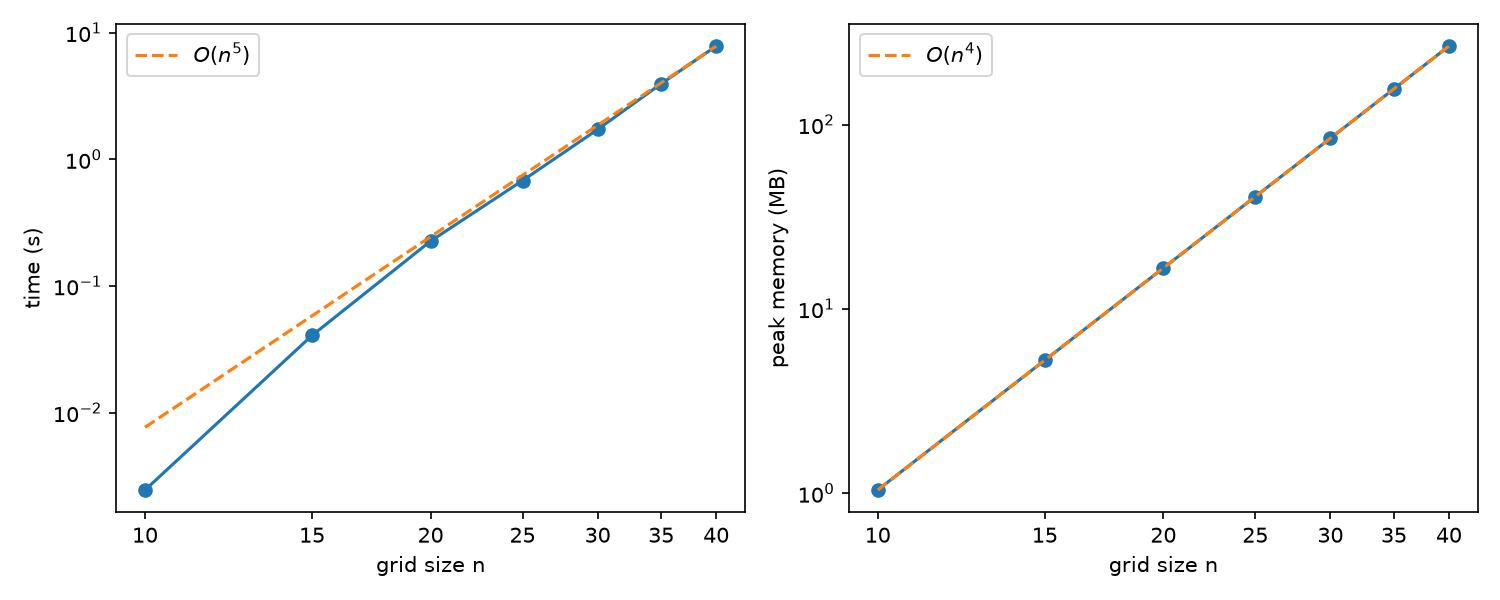
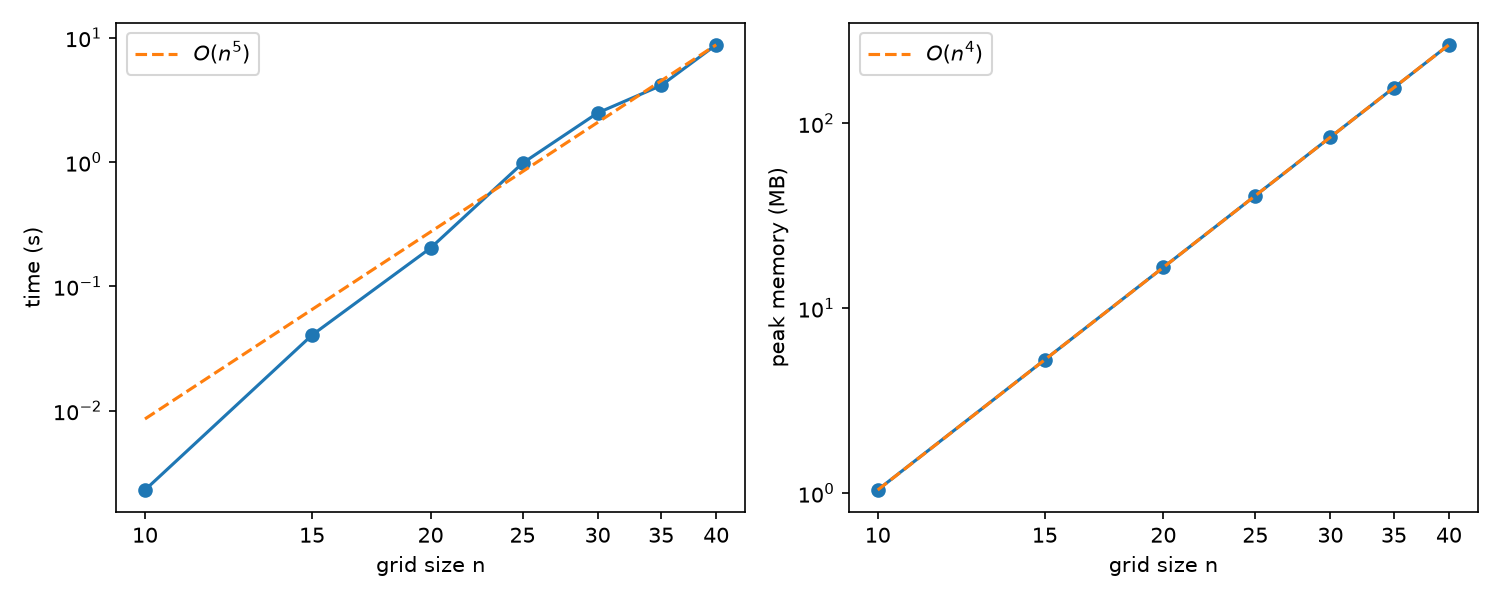
add README

diff --git a/visualize.py b/visualize.py
@@ -19,7 +19,7 @@ def fig_to_array(fig):
     return np.asarray(fig.canvas.buffer_rgba())[:, :, :3]
 
 
-def animate_episode(env, pursuer_policy, evader_policy, path):
+def animate_episode(env, pursuer_policy, evader_policy, path, title=""):
     state = env.reset()
     states = [(env.pursuer, env.evader, env.turn, env.t)]
     done = False
@@ -31,6 +31,7 @@ def animate_episode(env, pursuer_policy, evader_policy, path):
         state, reward, done = env.step(action)
         states.append((env.pursuer, env.evader, env.turn, env.t))
     fig, ax = plt.subplots()
+    fig.suptitle(title)  
 
     def update(i):
         ax.clear()
@@ -50,17 +51,24 @@ if __name__ == "__main__":
     import os
     os.makedirs("outputs", exist_ok=True)
 
-    env_ran = PursuitEvasionGrid(n=10, obstacles=[(4, 0), (4, 1), (4, 2)], seed=0)
+    env_ran_ran = PursuitEvasionGrid(n=10, obstacles=[(4, 0), (4, 1), (4, 2)], seed=0)
     path_ran = "outputs/random_vs_random.gif"
-    animate_episode(env_ran, random_policy, random_policy, path_ran)
-    print("done, total steps: ", env_ran.t)
+    animate_episode(env_ran_ran, random_policy, random_policy, path_ran, "random pursuer v.s. random evader")
+    print("done, total steps: ", env_ran_ran.t)
 
-    env_opt = PursuitEvasionGrid(n=10, obstacles=[(4, 0), (4, 1), (4, 2)], seed=0)
-    V0, V1, iters = value_iteration(env_opt)
-    optimal_pursuer, optimal_evader = optimal_policies(V0, V1, env_opt.neighbors)
+    env_opt_ran = PursuitEvasionGrid(n=10, obstacles=[(4, 0), (4, 1), (4, 2)], seed=0)
+    V0, V1, iters = value_iteration(env_opt_ran)
+    optimal_pursuer, optimal_evader = optimal_policies(V0, V1, env_opt_ran.neighbors)
+    path_opt = "outputs/optimal_vs_random.gif"
+    animate_episode(env_opt_ran, optimal_pursuer, random_policy, path_opt, "optimal pursuer v.s. random evader")
+    print("done, total steps: ", env_opt_ran.t)
+
+    env_opt_opt = PursuitEvasionGrid(n=10, obstacles=[(4, 0), (4, 1), (4, 2)], seed=0)
+    V0, V1, iters = value_iteration(env_opt_opt)
+    optimal_pursuer, optimal_evader = optimal_policies(V0, V1, env_opt_opt.neighbors)
     path_opt = "outputs/optimal_vs_optimal.gif"
-    animate_episode(env_opt, optimal_pursuer, optimal_evader, path_opt)
-    print("done, total steps: ", env_opt.t)
+    animate_episode(env_opt_opt, optimal_pursuer, optimal_evader, path_opt, "optimal pursuer v.s. optimal evader")
+    print("done, total steps: ", env_opt_opt.t)
 
 
     

diff --git a/test_solver.py b/test_solver.py
@@ -20,15 +20,25 @@ for name, env in zip(names, env_set):
     print(f"capture rate: {rate:.1%}")
     print(f"average steps to capture: {steps:.1f}")
 
-# optimal pursuer & random
-env_random_evader = PursuitEvasionGrid(n=10, obstacles=[(4, 0), (4, 1), (4, 2)], seed=0)
+# optimal pursuer & random evader
+env_opt_ran = PursuitEvasionGrid(n=10, obstacles=[(4, 0), (4, 1), (4, 2)], seed=0)
 print(f"\n====== optimal pursuer & random evader with wall ======\n")
-V0, V1, iters = value_iteration(env_random_evader)
+V0, V1, iters = value_iteration(env_opt_ran)
 print("iteration:", iters)
-optimal_pursuer, optimal_evader = optimal_policies(V0, V1, env_random_evader.neighbors)
-rate, steps = evaluate(env_random_evader, optimal_pursuer, random_policy)
+optimal_pursuer, optimal_evader = optimal_policies(V0, V1, env_opt_ran.neighbors)
+rate, steps = evaluate(env_opt_ran, optimal_pursuer, random_policy)
 print(f"capture rate: {rate:.1%}")
 print(f"average steps to capture: {steps:.1f}")
+
+# random pursuer & random evader
+env_random = PursuitEvasionGrid(n=10, obstacles=[(4, 0), (4, 1), (4, 2)], seed=0)
+print(f"\n====== random pursuer & random evader with wall ======\n")
+V0, V1, iters = value_iteration(env_random)
+print("iteration:", iters)
+rate, steps = evaluate(env_random, random_policy, random_policy)
+print(f"capture rate: {rate:.1%}")
+print(f"average steps to capture: {steps:.1f}")
+
 
 # Adjacent, pursuer's turn: capture on the next move
 p, e = env.to_idx(2, 7), env.to_idx(2, 8)

diff --git a/README.md b/README.md
@@ -1,0 +1,121 @@
+# Pursuit-Evasion on a Grid: Minimax Value Iteration
+
+A pursuer chases an evader on a discretized grid with obstacles. This project computes the optimal strategies for both players with minimax value iteration, compares them with random play, and measures how the computational cost grows as the grid gets finer.
+
+## Motivation
+
+Pursuit-evasion games are a classic testbed for motion planning and decision making between two agents with opposing goals. Discretizing the workspace into a grid makes the game exactly solvable, but the joint state space grows quickly with the resolution. This project asks two questions:
+
+1. What do optimal pursuit and evasion strategies look like on a small grid?
+2. How fast does the cost of exact solving grow, and when does it stop being practical?
+
+## Setup
+
+| Item | Setting |
+|---|---|
+| Grid | $n \times n$ cells, with obstacles |
+| Moves | 8 directions or stay (9 actions) for both players |
+| Turn order | Pursuer moves first, then the players alternate |
+| Capture | Both players occupy the same cell |
+| Episode end | Capture, or `max_steps` reached |
+
+Each move by either player counts as one step.
+
+## Method
+
+The value $V$ of a state is the number of steps until capture when both players play optimally. The pursuer minimizes it and the evader maximizes it. With $N[x, a]$ denoting the cell reached from cell $x$ by action $a$:
+
+$$V_0[p, e] = 1 + \min_{a} V_1\big[N[p, a],\ e\big] \qquad \text{(pursuer to move)}$$
+
+$$V_1[p, e] = 1 + \max_{a} V_0\big[p,\ N[e, a]\big] \qquad \text{(evader to move)}$$
+
+Captured states ($p = e$) have value 0. All other states start at $\infty$ and are updated until nothing changes. After $k$ iterations, the finite values are exactly the states from which capture is guaranteed within $k$ steps. States that stay at $\infty$ are those from which the evader can escape forever.
+
+Both updates are vectorized with NumPy fancy indexing over a precomputed neighbor table, so one iteration processes all $2n^4$ states at once. Optimal policies are read off the converged tables with `argmin` and `argmax`.
+
+## Results
+
+### Optimal vs. Random Play
+
+10 × 10 grid with a wall attached to the left border, 1,000 episodes per pairing:
+
+| Pursuer | Evader | Capture rate | Avg. steps to capture |
+|---|---|---|---|
+| Random | Random | 38.1% | 42.7 |
+| Optimal | Random | 100.0% | 8.8 |
+| Optimal | Optimal | 100.0% | 12.5 |
+
+In optimal-vs-optimal play, the simulated number of steps matches the value predicted by $V_0$ at the start state. Against a random evader, the optimal pursuer captures faster (8.8 vs. 12.5 steps), because the optimal evader actively delays capture.
+
+| Optimal vs. Random | Optimal vs. Optimal |
+|---|---|
+| ![Optimal pursuer vs random evader](outputs/optimal_vs_random.gif) | ![Optimal pursuer vs optimal evader](outputs/optimal_vs_optimal.gif) |
+
+### Finding: a single hole lets the evader escape forever
+
+Optimal pursuer vs. optimal evader on three 10 × 10 maps, 1,000 episodes each:
+
+| Map | Obstacles | Capture rate | Avg. steps to capture |
+|---|---|---|---|
+| No obstacles | none | 100.0% | 12.5 |
+| Wall | attached to the left border | 100.0% | 12.5 |
+| Hole | 2 cells in the middle | 52.6% | 9.8 |
+
+With an obstacle in the middle of the grid, 49.5% of the states (both players on free cells) have infinite value, and only about half of the episodes end in capture: the evader reaches the obstacle and circles it, and a pursuer of equal speed can never close the gap. This matches the theory of cops and robbers games on graphs, where a hole lets the robber circle around it indefinitely. Obstacles in the main experiments are therefore attached to the border.
+
+### Scaling
+
+![Scaling of runtime and memory](outputs/scaling.png)
+
+| $n$ | States | Iterations | Time (s) | Peak memory (MB) | Max steps to capture |
+|---|---|---|---|---|---|
+| 10 | 20,000 | 19 | 0.002 | 1.0 | 17 |
+| 15 | 101,250 | 29 | 0.041 | 5.3 | 27 |
+| 20 | 320,000 | 39 | 0.204 | 16.6 | 37 |
+| 25 | 781,250 | 49 | 0.980 | 40.6 | 47 |
+| 30 | 1,620,000 | 59 | 2.488 | 84.2 | 57 |
+| 35 | 3,001,250 | 69 | 4.140 | 156.1 | 67 |
+| 40 | 5,120,000 | 79 | 8.798 | 266.2 | 77 |
+
+Memory grows as $O(n^4)$ (fitted slope 4.00) and runtime as roughly $O(n^5)$ (fitted slope 5.26 for $n \geq 20$), matching the analysis: the joint state space has $2n^4$ states, and the number of iterations grows linearly with $n$. On these maps the iterations are exactly $2n - 1$ and the longest capture takes $2n - 3$ steps.  
+
+Peak memory agrees with the estimate of about $13 n^4$ float64 values (266 MB at $n = 40$): four value tables plus the $(n^2, 9, n^2)$ intermediate array of the vectorized update, which dominates.  
+
+Small grids run faster than the trend predicts, likely because their arrays fit into the CPU cache.
+
+Extrapolating from $n = 40$ to $n = 100$ gives about 18 minutes and 10 GB of memory, so memory becomes the bottleneck first. 
+
+> Time: $$8.8 \times 2.5^{5.26} \approx 1080 s$$ 
+> Memory: $$266 \times 2.5^4 \approx 10{,}400 MB$$   
+
+This motivates approximate methods, such as self-play reinforcement learning, for finer or continuous state spaces.
+
+## Repository structure
+
+```
+env.py          Grid environment (neighbor table, reset, step)
+solver.py       Minimax value iteration and optimal policies
+baseline.py     Random policy and evaluation
+visualize.py    Frame rendering and GIF export
+scaling.py      Scaling experiment
+test_env.py     Tests for the environment
+test_solver.py  Tests for the solver
+outputs/        Figures, GIFs and experiment results (CSV)
+```
+
+## How to run
+
+```bash
+python -m venv .venv
+.venv\Scripts\activate          # macOS/Linux: source .venv/bin/activate
+pip install -r requirements.txt
+
+python test_env.py
+python test_solver.py
+python solver.py                # policy comparison
+python visualize.py             # GIFs
+python scaling.py               # scaling experiment
+```
+
+All figures, GIFs and results are saved to `outputs/`.
+
